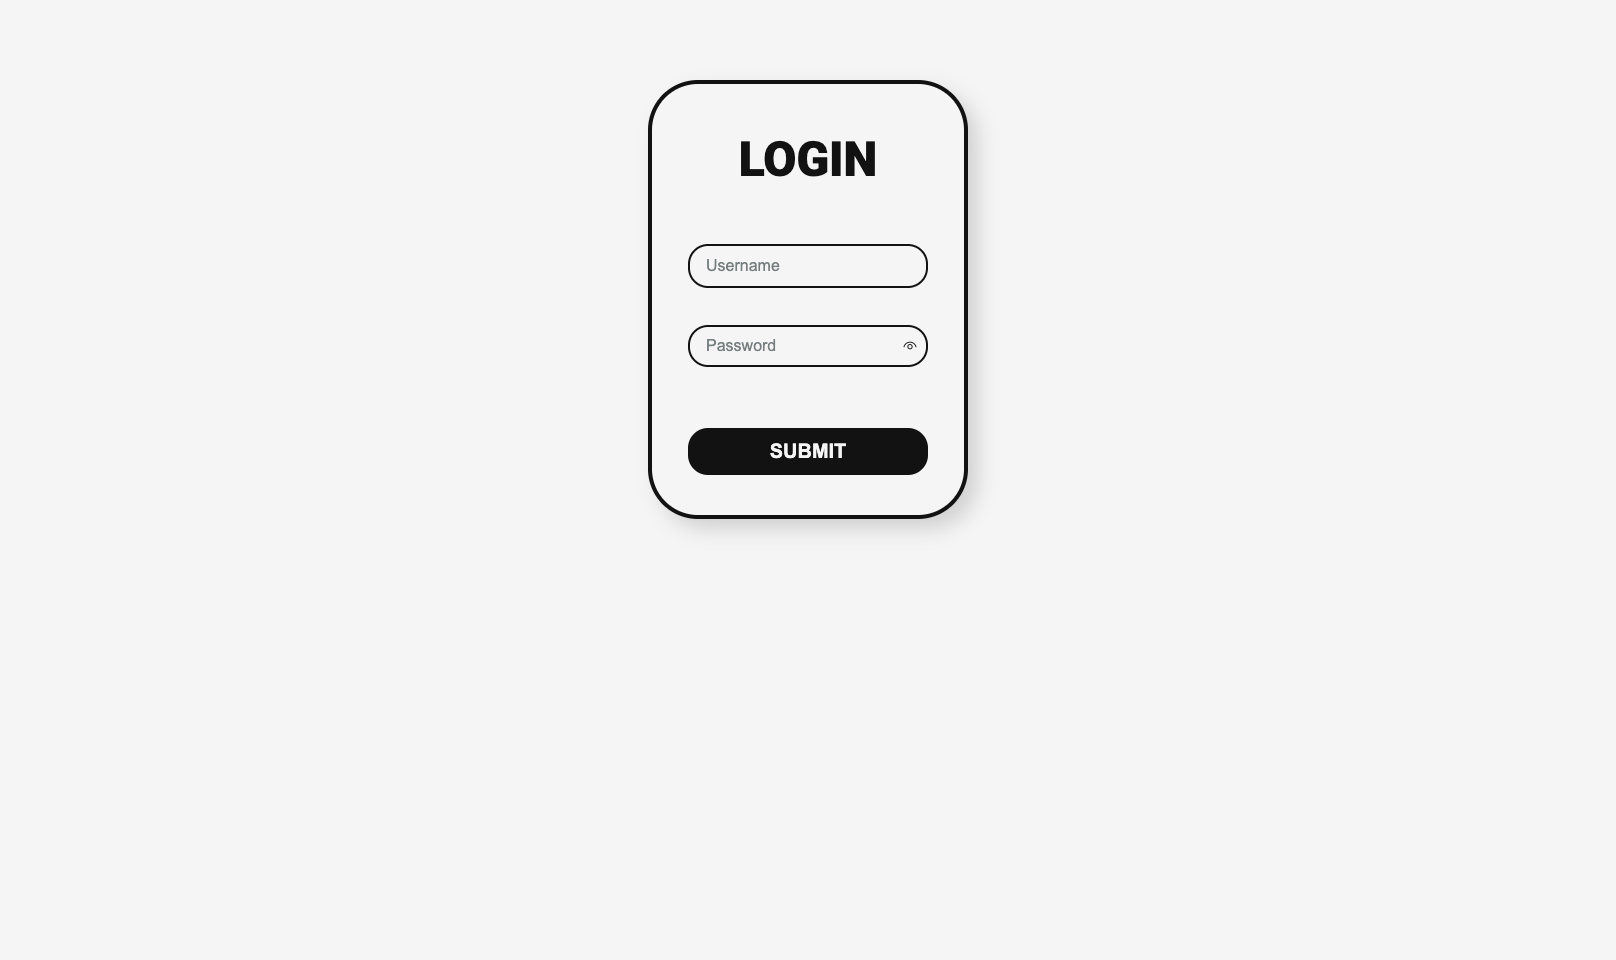
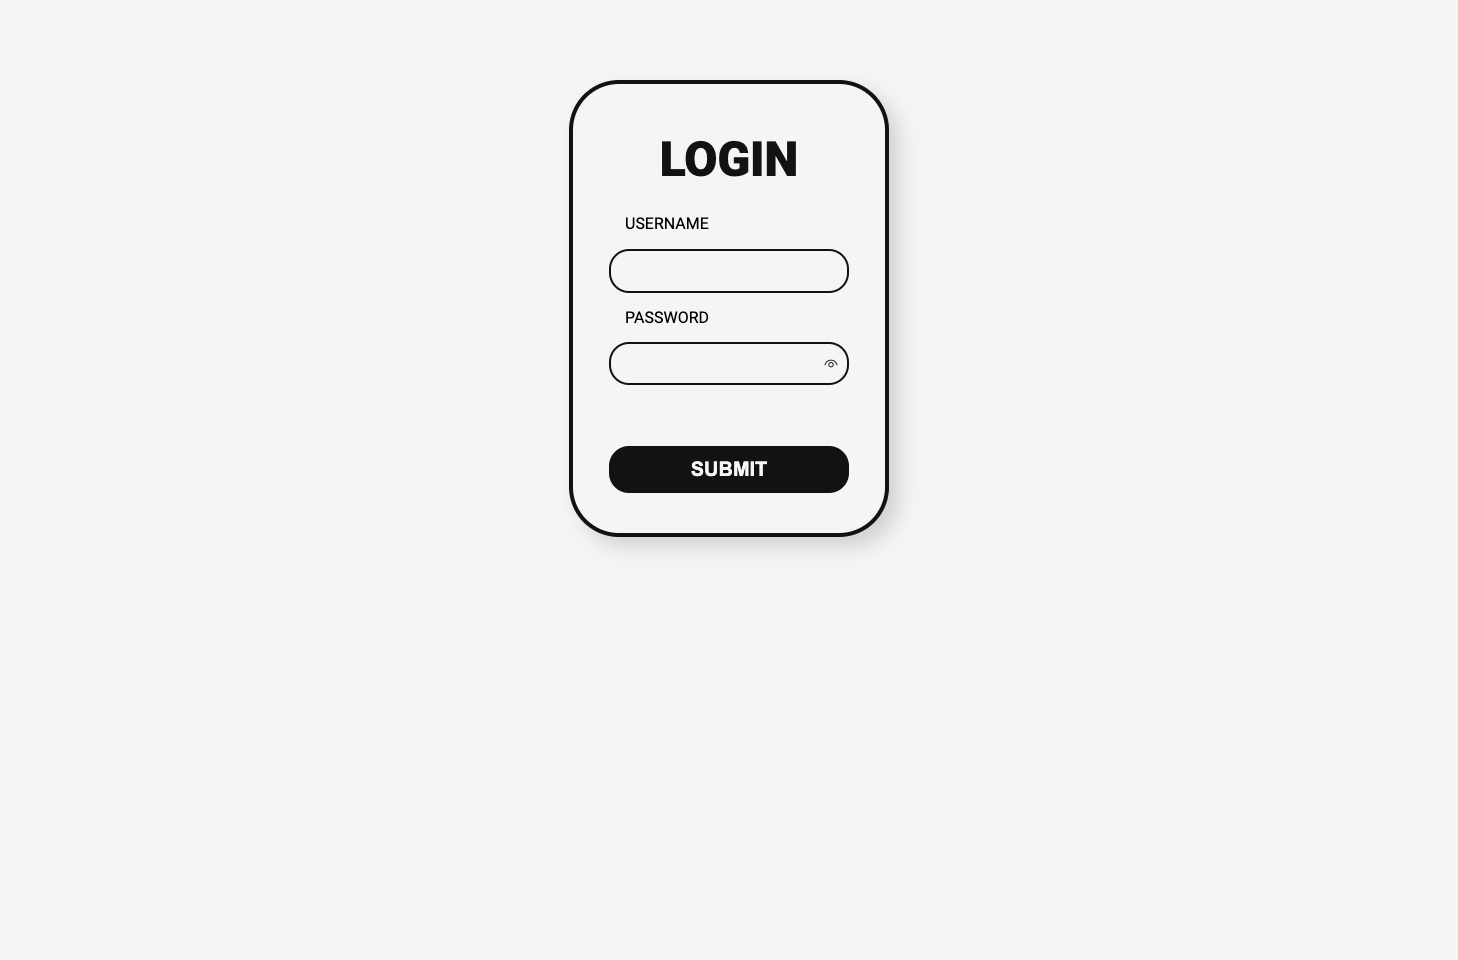
update login

diff --git a/src/pages/LoginPage.tsx b/src/pages/LoginPage.tsx
@@ -1,8 +1,8 @@
-import { useState, useCallback } from "react";
-import mockData from '../data/mockData.json';
-import '../styles/LoginPage.css'
-import eyeShow from '../assets/login/eye-show.png'
-import eyeHide from '../assets/login/eye-hide.png'
+import { useState } from "react";
+import mockData from "../data/mockData.json";
+import "../styles/LoginPage.css";
+import eyeShow from "../assets/login/eye-show.png";
+import eyeHide from "../assets/login/eye-hide.png";
 import { useAuth } from "../hooks/useAuth";
 import { comparePassword } from "../utils/bcrypt";
 
@@ -24,8 +24,8 @@ const LoginPage = () => {
     emptyPassword: 'Password is required'
   };
 
-  
-  const handleLogin = useCallback(async (e: React.FormEvent) => {
+// click login
+  const handleLogin = async (e: React.FormEvent<HTMLFormElement>) => {
     e.preventDefault();
     setLoading(true);
 
@@ -33,28 +33,29 @@ const LoginPage = () => {
       // Validate empty fields
       if (!username && !password) {
         setError(errorMessages.emptyFields);
-        setLoading(false)
+        setLoading(false);
         return;
       }
       if (!username) {
         setError(errorMessages.emptyUsername);
-        setLoading(false)
+        setLoading(false);
         return;
       }
       if (!password) {
         setError(errorMessages.emptyPassword);
-        setLoading(false)
+        setLoading(false);
         return;
       }
 
-      // Find user from mock data
+      // find user from mock data
       const user = mockData.users.find((user) => user.username === username);
 
-     
+
       if (user) {
-        const passwordMatch = await comparePassword(password, user.password); // Compare hashed password
+        // compare hashed password
+        const passwordMatch = await comparePassword(password, user.password);
         if (passwordMatch) {
-          login(user); 
+          login(user);
         } else {
           setError(errorMessages.invalidCredentials);
         }
@@ -63,13 +64,13 @@ const LoginPage = () => {
       }
     } catch (err) {
       console.error('Error during login:', err);
-      setError('An unexpected error occurred. Please try again.')
+      setError('An unexpected error occurred. Please try again.');
     } finally {
       setLoading(false);
     }
-  }, [username, password, login]);
+  };
 
-// Show or hide password
+  // show or hide password
   const handleShowPassword = () => {
     setShowPassword((prevState) => !prevState);
   };
@@ -81,45 +82,41 @@ const LoginPage = () => {
   };
 
   return (
-    <div className="container">
+    <div className="container-login">
       <h1 className="text-login">LOGIN</h1>
       <form onSubmit={handleLogin} className="form-login">
-
-      <div className={`container-username ${error && (error.includes(errorMessages.emptyUsername) || error.includes(errorMessages.emptyFields) || error.includes(errorMessages.invalidCredentials)) && 'error-username'}`}>
-        <input
-          type="text"
-          id="username"
-          placeholder="Username"
-          className="input-username"
-
-          value={username}
-          onChange={(e) => handleInputChange(setUsername, e.target.value)}
-          autoComplete="off" 
-           autoFocus
-        />
-      </div>
-
-      <div className={`container-password ${error && (error.includes(errorMessages.emptyPassword) || error.includes(errorMessages.emptyFields) || error.includes(errorMessages.invalidCredentials)) && 'error-password'}`}>
-        <input
-          type={showPassword ? "text" : "password"}
-          id="password"
-          placeholder="Password"
-          className="input-password"
-          value={password}
-          onChange={(e) => handleInputChange(setPassword, e.target.value)}
-          autoComplete="off" 
-        />
-        <img
-          onClick={handleShowPassword}
-          src={showPassword ? eyeHide : eyeShow}
-          alt={showPassword ? "Hide Password" : "Show Password"}
-          className="icon-eye"
-        />
-      </div>
-      {error ? <p className="text-error">{error}</p> : <p className="text-error">&nbsp;</p>}
-      <button type="submit" className="button-submit">{loading ? 'LOADING...' : 'SUBMIT'}</button>
-      
-    </form>
+      <label htmlFor="username" className="label-head">USERNAME</label>
+        <div className={`container-username ${error && (error.includes(errorMessages.emptyUsername) || error.includes(errorMessages.emptyFields) || error.includes(errorMessages.invalidCredentials)) && 'error-username'}`}>
+          <input
+            type="text"
+            id="username"
+            className="input-username"
+            value={username}
+            onChange={(e) => handleInputChange(setUsername, e.target.value)}
+            autoComplete="off"
+            autoFocus
+          />
+        </div>
+        <label htmlFor="password" className="label-head">PASSWORD</label>
+        <div className={`container-password ${error && (error.includes(errorMessages.emptyPassword) || error.includes(errorMessages.emptyFields) || error.includes(errorMessages.invalidCredentials)) && 'error-password'}`}>
+          <input
+            type={showPassword ? "text" : "password"}
+            id="password"
+            className="input-password"
+            value={password}
+            onChange={(e) => handleInputChange(setPassword, e.target.value)}
+            autoComplete="off"
+          />
+          <img
+            onClick={handleShowPassword}
+            src={showPassword ? eyeHide : eyeShow}
+            alt={showPassword ? "Hide Password" : "Show Password"}
+            className="icon-eye"
+          />
+        </div>
+        {error ? <p className="text-error">{error}</p> : <p className="text-error">&nbsp;</p>}
+        <button type="submit" className="button-submit">{loading ? 'LOADING' : 'SUBMIT'}</button>
+      </form>
     </div >
   )
 }

diff --git a/src/styles/LoginPage.css b/src/styles/LoginPage.css
@@ -1,16 +1,16 @@
-.container {
+.container-login {
     width: 20rem;
-
-    margin-inline: auto;
-    margin-top: 5rem;
-
+    
     display: flex;
     flex-direction: column;
     justify-content: start;
     align-items: center;
     gap: 1rem;
+    
     background: var(--white);
 
+    margin-inline: auto;
+    margin-top: 5rem;
     padding: 2.5rem;
     border: 4px solid var(--black);
     border-radius: 50px;
@@ -26,20 +26,18 @@
     font-size: 1.2rem;
     font-weight: 500;
 }
-
-
 .form-login {
     display: flex;
     flex-direction: column;
     gap: .8rem;
 }
-
+.label-head {
+    padding-left: 1rem;
+}
 .container-username {
     width: 15rem;
-    
-    padding: .5rem;
-    margin-top: 2rem;
 
+    padding: .5rem;
     border: 2px solid var(--black);
     border-radius: 20px;
 }
@@ -52,26 +50,23 @@
     padding-left: .5rem;
     background: var(--white);
 }
-.input-username::placeholder {
-  color: var(--gray);
-}
-
 .text-password {
     align-self: flex-start;
     font-size: 1.2rem;
     font-weight: 500;
-
 }
 .container-password {
     width: 15rem;
+
     display: flex;
     flex-direction: row;
     justify-content: space-between;
     align-items: center;
+
+
     padding: .5rem;
     border: 2px solid var(--black);
     border-radius: 20px;
-    margin-top: 1.5rem;
 }
 .container-password.error-password {
     border: 2px solid var(--red);
@@ -84,10 +79,6 @@
     background: var(--white);
     
 }
-.input-password::placeholder {
- color: var(--gray);
-    
-}
 .icon-eye {
     height: 1rem;
     width: 1rem;
@@ -96,14 +87,14 @@
 .button-submit {
     font-size: 1.25rem;
     font-weight: 800;
+
     color: var(--white);
     background: var(--black);
     
-    border: 4px solid var(--black);
-    border-radius: 20px;
-
-    padding: .5rem;
     margin-top: 1rem;
+    padding: .5rem;
+    border: 4px solid var(--black);
+    border-radius: 20px;  
 
     cursor: pointer;
 }
@@ -113,11 +104,9 @@
 .button-submit:active {
     scale: .95;
 }
-
 .text-error {
     color: var(--red);
+    text-align: center;
     font-size: .8rem;
     font-weight: 700;
-    text-align: center;
-
 }

diff --git a/src/styles/index.css b/src/styles/index.css
@@ -8,34 +8,25 @@
 :root {
     --white: #F5F5F5;
     --black: #121212;
-    --blacklight: #313131;
     --red: #f44336;
-    --blue: #a0b3cc;
     --green: #65b075;
     --gray: #757d7e;
     --graylight: #eeeeee;
 }
-
 body {
     min-height: 100vh;
     line-height: 1.5;
     font-family: "Roboto";
     background-color: var(--white);
 }
-
 ul,ol {
     list-style: none;
 }
-
 button {
     border: none;
     background: none;
 }
-
 input {
     border: none;
     outline: none;
-}
-strong {
-    color: var(--black);
 }
